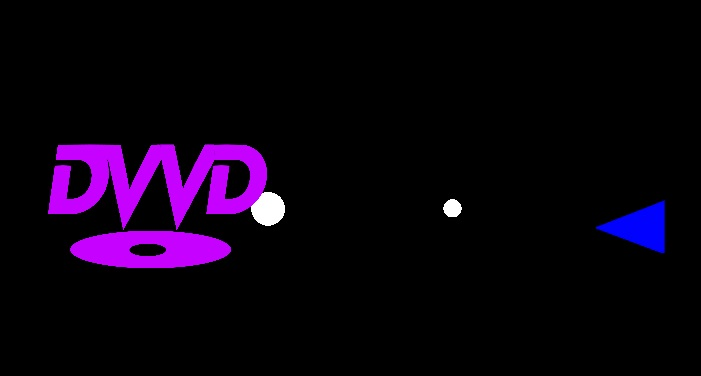
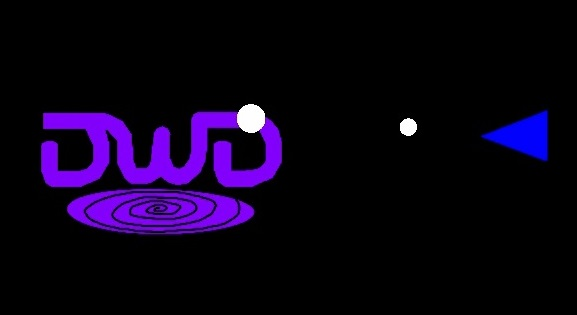
Changed DUUD thumbnail

diff --git a/index.html b/index.html
@@ -79,7 +79,7 @@
     <div class="w3-third w3-container">
       <a href="https://jaimebarentine.github.io/DVVD.html" class="image fit thumb"><img src="images/thumbs/DVVD-portfolio.jpg" alt="DVVD" style="width:100%" class="w3-hover-opacity"></a>
       <div class="w3-container w3-white">
-        <p><b>DVVD</b></p>
+        <p><b>DUUD</b></p>
         <p>Coming soon! After working QA on two different online multiplayer games, I decided to work together with my brother to create our own online game where you fight with friends to defeat the bouncing DVD logo. Through this process, I gained practice using Github to share project updates and branch changes for working with another person.</p>
       </div>
     </div>
